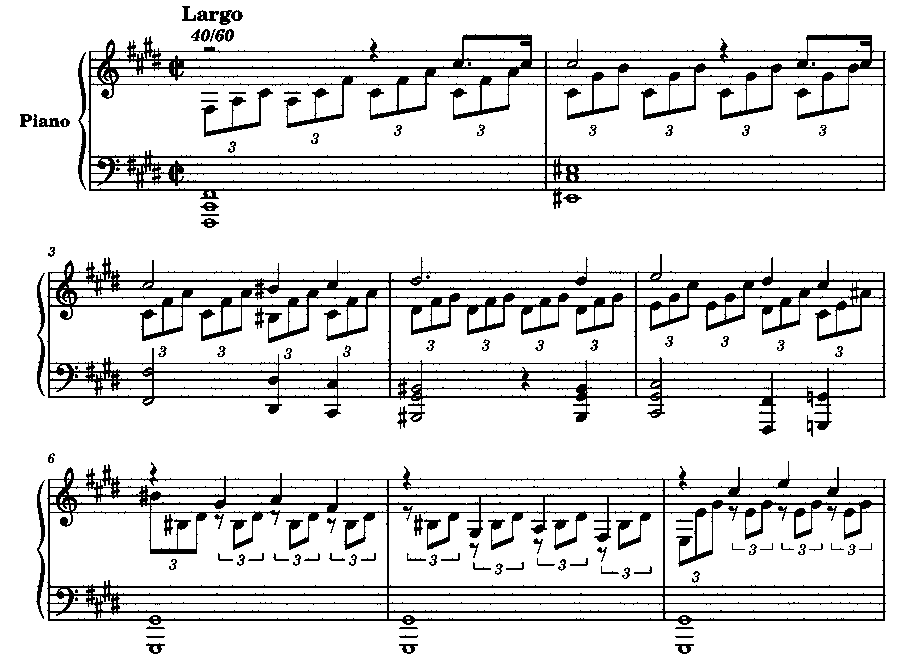
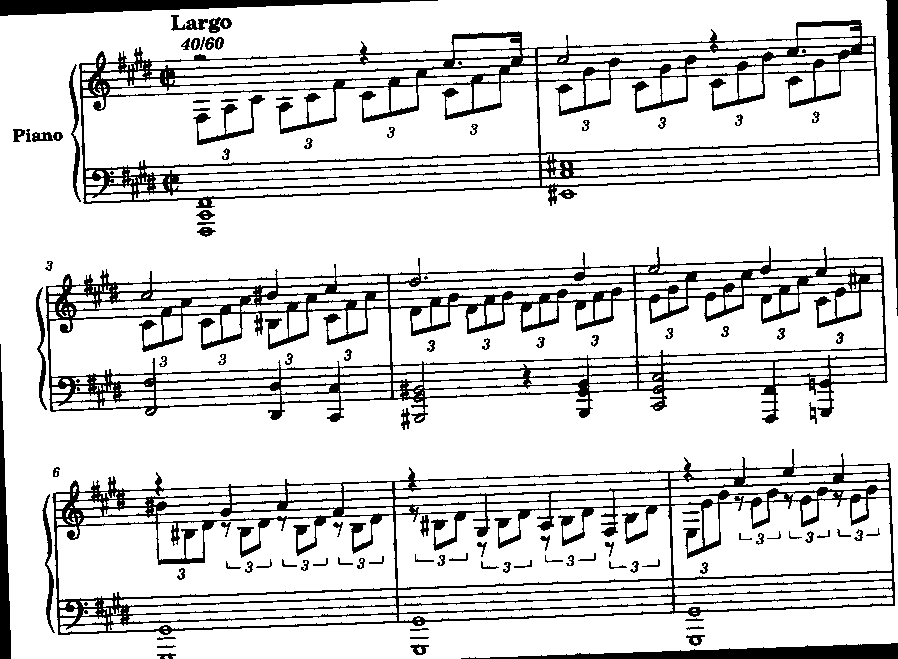
rotation

Changed region(s): [[0.0, 0.0, 1.0, 1.0]]

diff --git a/mock_noise/maximize_rotation.py b/mock_noise/maximize_rotation.py
@@ -1,0 +1,32 @@
+import cv2
+import numpy as np
+import music_noise
+
+img = cv2.imread("noise_sample1.png", cv2.IMREAD_GRAYSCALE)
+
+
+max_edge_pixels = -1
+best_angle = 0
+
+for angle in range(-30, 30):
+    rotated_img = music_noise.rotate(img, angle)
+
+    sobel_horizontal = cv2.Sobel(rotated_img, cv2.CV_64F, 1, 0, ksize=3)
+    sobel_vertical = cv2.Sobel(rotated_img, cv2.CV_64F, 0, 1, ksize=3)
+
+    num_horizontal_edges = np.sum(sobel_horizontal == 0)
+    num_vertical_edges = np.sum(sobel_vertical == 0)
+
+    total_edge_pixels = num_horizontal_edges + num_vertical_edges
+
+    if total_edge_pixels > max_edge_pixels:
+        max_edge_pixels = total_edge_pixels
+        best_angle = angle
+
+rotated_img = music_noise.rotate(img, best_angle)
+
+cv2.imshow("asdfasdf", img)
+cv2.imshow("asdgasfd", rotated_img)
+
+cv2.waitKey(0)
+cv2.destroyAllWindows()

diff --git a/mock_noise/music_noise.py b/mock_noise/music_noise.py
@@ -28,20 +28,20 @@ def invert(binary_img):
 
 # utility to rotate image with specified degree
 def rotate(img, angle):
-    angle = 20
 
     height, width = img.shape[:2]
 
     rotation_matrix = cv2.getRotationMatrix2D((width / 2, height / 2), angle, 1)
 
-    return cv2.warpAffine(image, rotation_matrix, (width, height))
+    return cv2.warpAffine(img, rotation_matrix, (width, height))
 
 
-file = "sample3.png"
+file = "sample1.png"
 
 if __name__ == "__main__":
 
     image = cv2.imread(file, cv2.IMREAD_GRAYSCALE)
+    image = rotate(image, 2)
 
     _, binary_image = cv2.threshold(image, 200, 255, cv2.THRESH_BINARY_INV)
 
